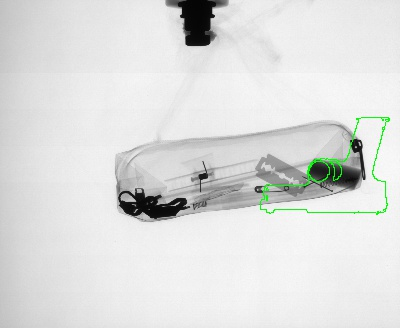
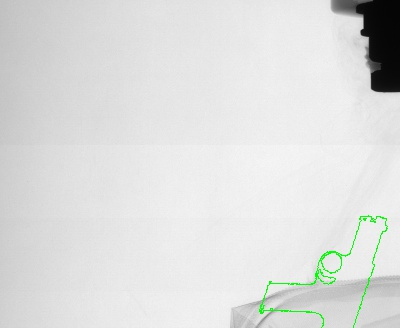
Voting now splitting template not image

Changed region(s): [[0.27, 0.3354, 1.0, 1.0], [0.81, 0.0, 1.0, 0.3049], [0.39, 0.0, 0.57, 0.1524]]

diff --git a/PistolDetection/main.cpp b/PistolDetection/main.cpp
@@ -23,12 +23,12 @@ using namespace cv;
 using namespace dlib;
 
 Vector<Vector<int>> truth;
-const int numPolygons = 2;
+const int numPolygons = 4;
 const int features = numPolygons*2;
 
 static int numFound = 0;
-string folder = "./basicFinds/Found";
-//string folder = "./votingFinds/" + std::to_string(numPolygons) + "/Found";
+//string folder = "./basicFinds/Found";
+string folder = "./votingFinds/" + std::to_string(numPolygons) + "/Found";
 //string folder = "./mLFinds/Found";
 
 
@@ -282,10 +282,10 @@ Vector<Mat> splitIntoImages(Mat img, int rows = 4, int cols = 4){
 /*Return whether or not a gun is identified based on identification of a majority of subimages*/
 chamferResult votingChamfer(Mat img, Mat tpl){
     chamferResult result;
-	Vector<Mat> subPolygons = splitIntoImages(img);
+	Vector<Mat> subPolygons = splitIntoImages(tpl);
 	int detected = 0;
 	for(int i = 0; i < numPolygons; i++){
-        chamferResult subresult = basicChamfer(subPolygons[i], tpl.clone());
+        chamferResult subresult = basicChamfer(img, subPolygons[i].clone());
 		if(subresult.found==true) detected += 1;
 	}
 	if(detected > numPolygons/2){
@@ -298,6 +298,8 @@ chamferResult votingChamfer(Mat img, Mat tpl){
 
 subdividedResults getAllSubImageResults(Mat tpl){
     subdividedResults subResults;
+    
+    Vector<Mat> subPolygons = splitIntoImages(tpl, numPolygons, numPolygons);
     
     bool samplesTested = false;
     if(!samplesTested){
@@ -322,6 +324,7 @@ subdividedResults getAllSubImageResults(Mat tpl){
                 if(i < 10) folder = "0" + folder;
                 if(imgNum < 10) pic = "0" + pic;
                 string fileLocation = "../../images/X" + folder + "/X" + folder + "_" + pic + ".png";
+                cout << fileLocation << endl;
                 Mat img = imread(fileLocation, CV_LOAD_IMAGE_GRAYSCALE);
                 Mat cimg;
                 cvtColor(img, cimg, CV_GRAY2BGR);
@@ -331,9 +334,8 @@ subdividedResults getAllSubImageResults(Mat tpl){
                 
                 clock_t begin = clock();
                 
-                Vector<Mat> subPolygons = splitIntoImages(img, numPolygons, numPolygons);
                 for(int i = 0; i < numPolygons; i++){
-                    chamferResult subresult = basicChamfer(subPolygons[i], tpl.clone());
+                    chamferResult subresult = basicChamfer(img, subPolygons[i].clone());
                     if(subresult.found){
                         found.push_back(1);//1 is found
                         found.push_back(subresult.cost);
@@ -462,13 +464,13 @@ funct setUpMLChamfer(Mat tpl, std::vector<std::vector<double> > imageFeatures, s
 
 /*Use trained system to determine whether or not a gun is present based on subimage results*/
 bool MLChamfer(Mat img, Mat tpl, funct decisionFunction){
-	Vector<Mat> subPolygons = splitIntoImages(img, numPolygons, numPolygons);
+	Vector<Mat> subPolygons = splitIntoImages(tpl, numPolygons, numPolygons);
     
 
     //Find results for sub-images
     subImageResults found;
 	for(int i = 0; i < numPolygons; i++){
-        chamferResult subresult = basicChamfer(subPolygons[i], tpl);
+        chamferResult subresult = basicChamfer(img, subPolygons[i].clone());
         if(subresult.found){
             found(2*i) = 1;//1 is found
             found(2*i+1) = (subresult.cost);
@@ -698,8 +700,8 @@ int main( int argc, char** argv ) {
     tpl = imread(argc == 3 ? argv[1] : "./pistol_3.jpg", CV_LOAD_IMAGE_GRAYSCALE);
     
     populateTruth();
-    basicChamferTest(tpl);
-    //basicChamfer(img, tpl);
+    //basicChamferTest(tpl);
+    votingChamferTest(tpl);
     return 0;
 
 
